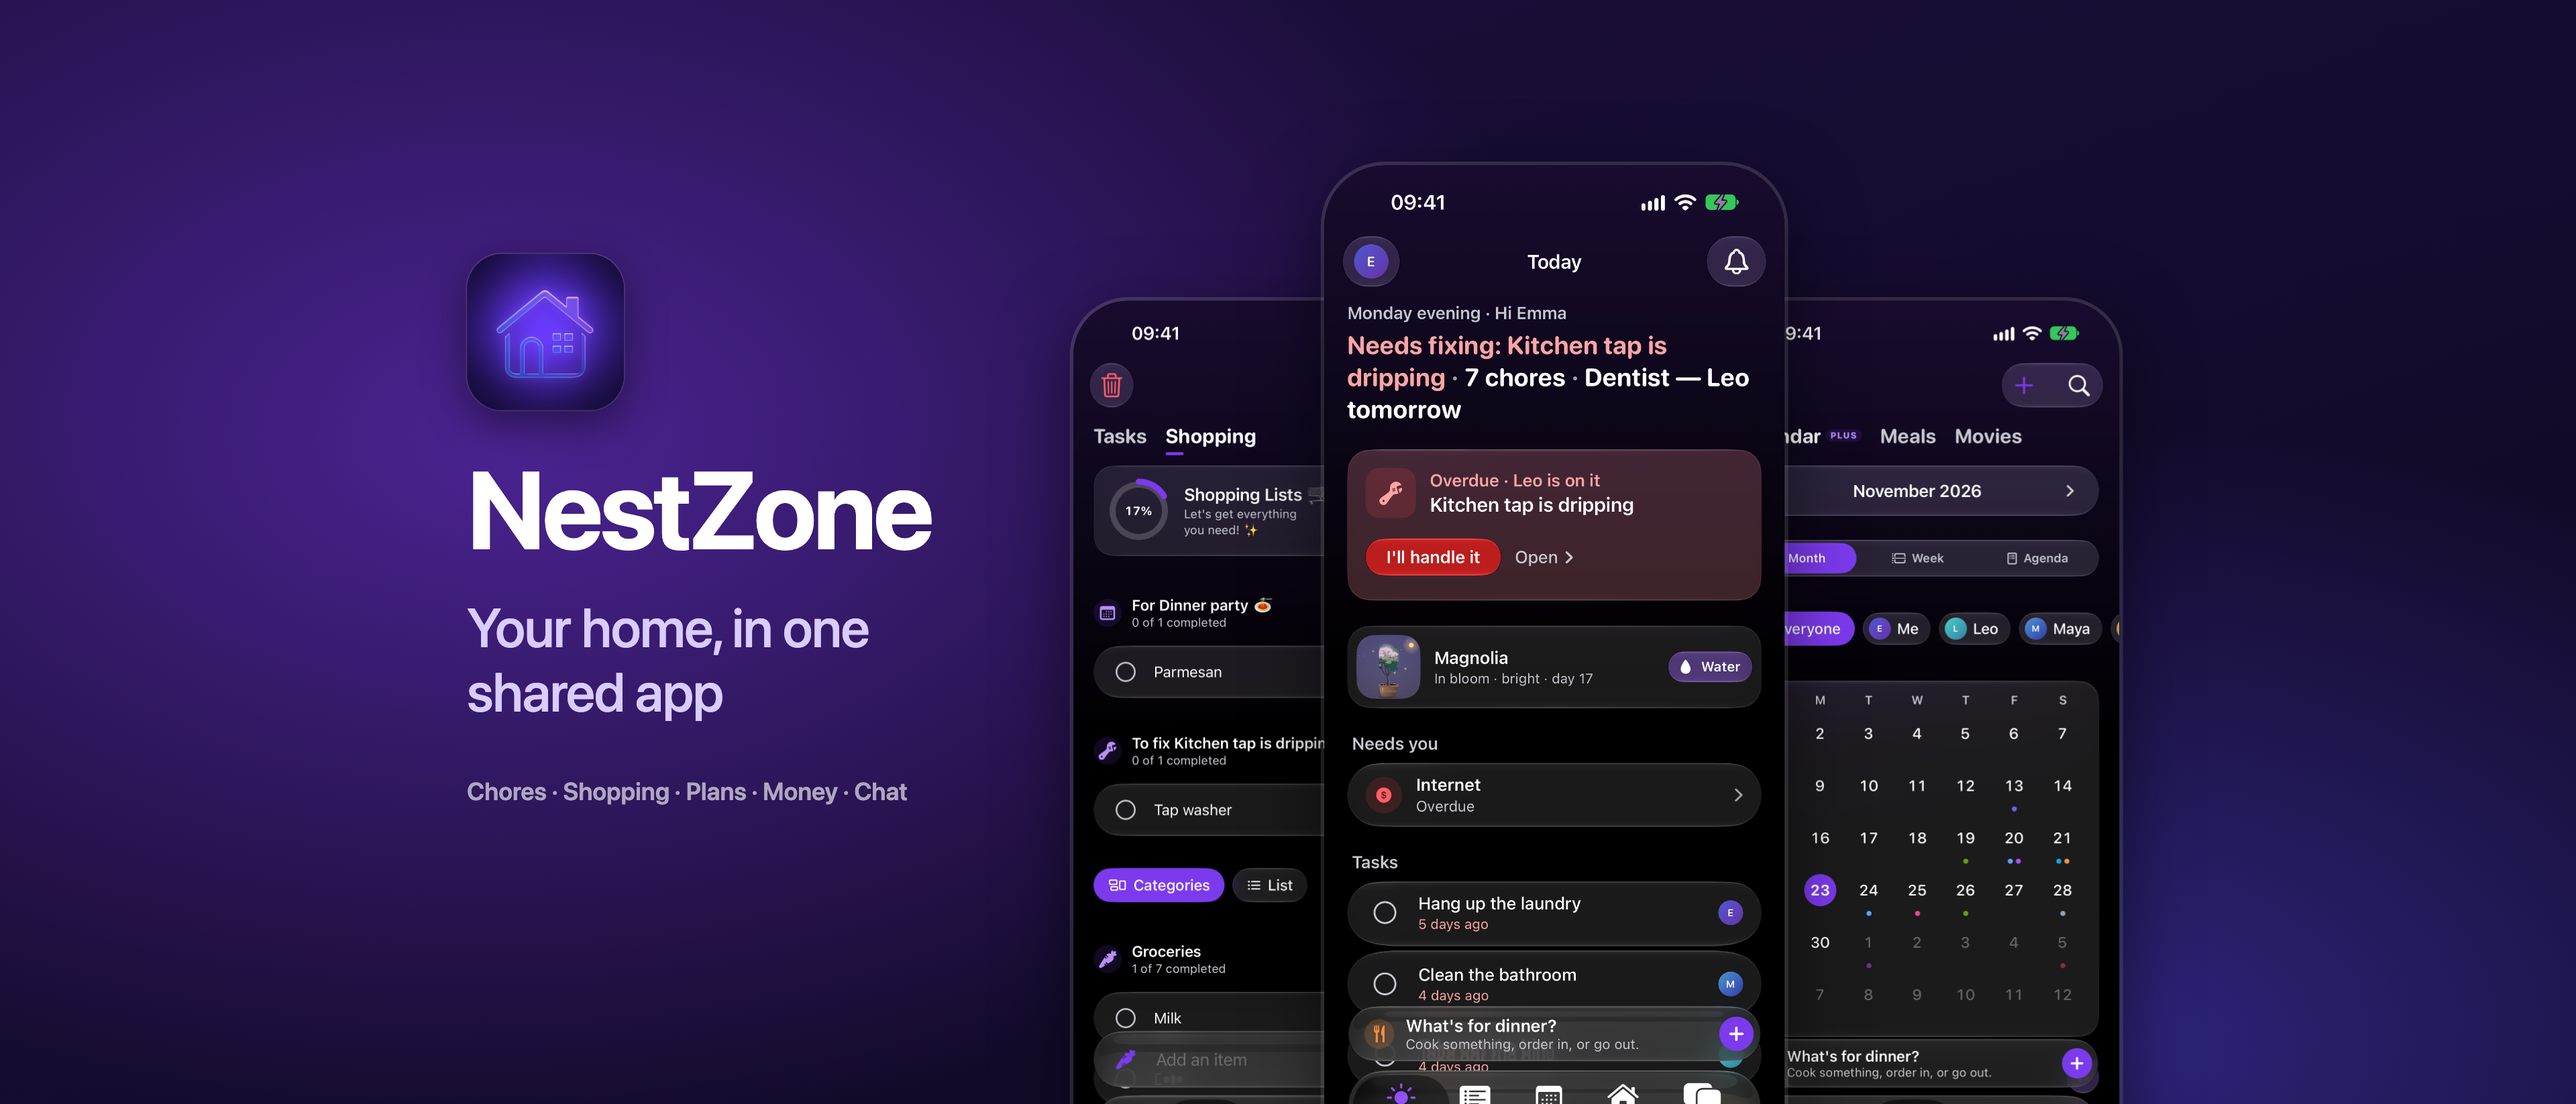
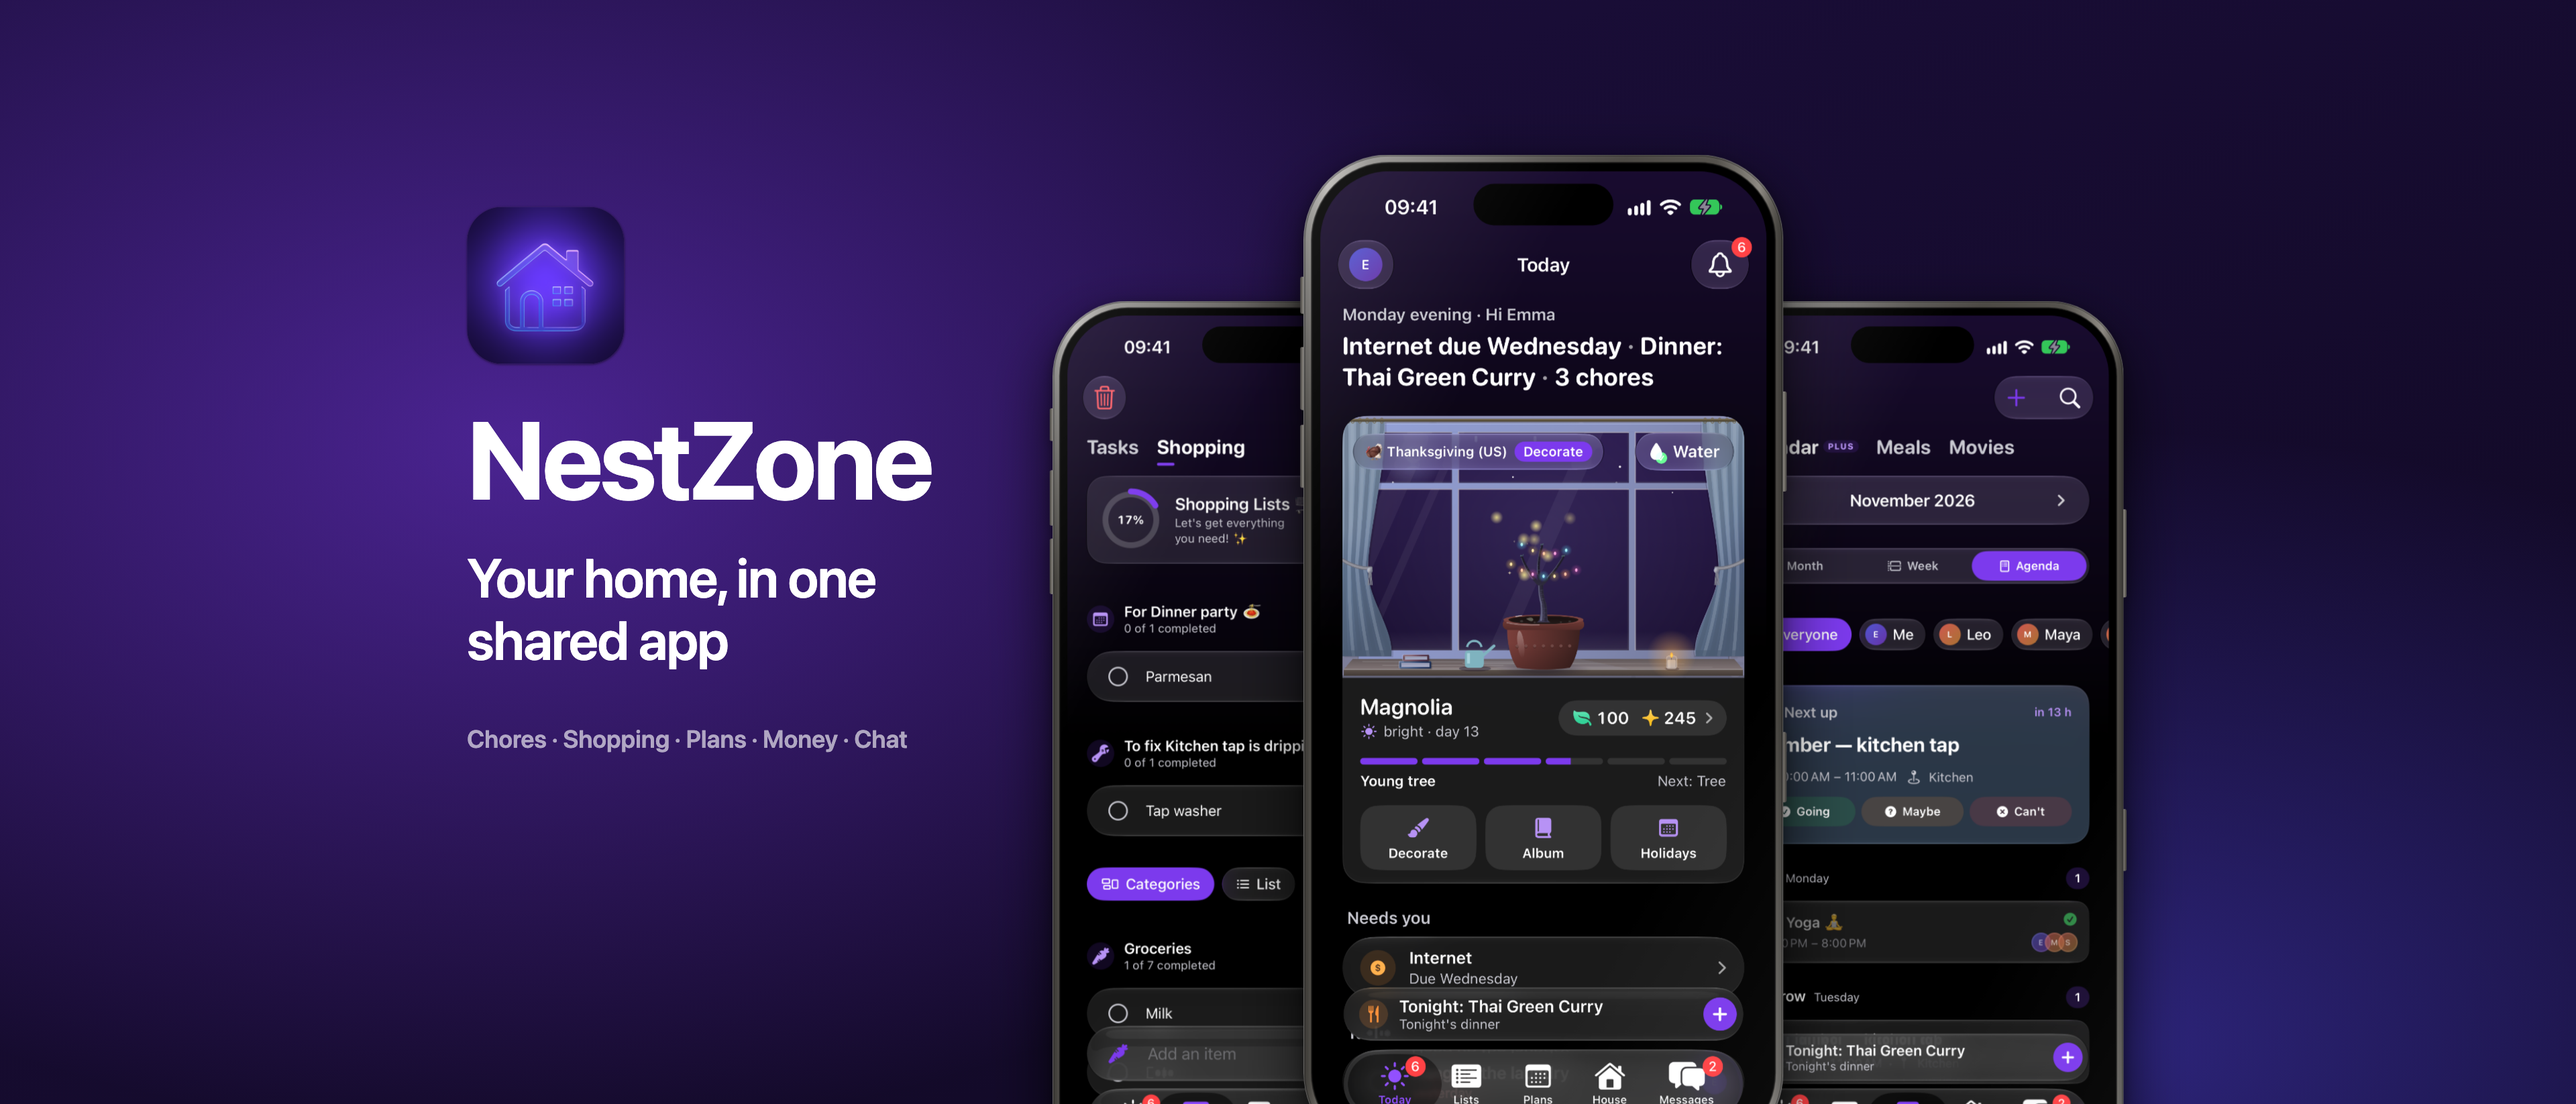
App Store header and search-results art in a real iPhone frame, en/tr/sv, from the 1.13 screens

Changed region(s): [[0.4062, 0.1239, 0.8438, 1.0], [0.1562, 0.1859, 0.375, 0.6817], [0.1875, 0.7126, 0.3438, 0.7436]]

diff --git a/Docs/Launch/header/header.html b/Docs/Launch/header/header.html
@@ -1,62 +1,97 @@
 <!doctype html>
 <meta charset="utf-8">
-<title>NestZone header</title>
+<title>NestZone header and search results</title>
 <style>
-  :root {
-    --violet: #7C3AED; --indigo: #4F46E5;
-    --ink: #0f0820; --ink2: #1d0f3f;
-  }
+  :root { --ink: #0d0620; }
   * { box-sizing: border-box; margin: 0; }
   html, body { overflow: hidden; background: var(--ink); }
-  /* One unit = 1% of the height, or 1/200 of the width on a wider canvas, so
-     the same layout fills 5244x2950 and 3840x1646. The text and the middle of
-     the phones sit in the central ~60% x 65%; the outer phones and the foot of
-     the middle one bleed past it on purpose (App Store Connect crops this
-     image differently on each surface). */
   body { position: relative; width: 100vw; height: 100vh;
+    font-family: -apple-system, "SF Pro Display", "Helvetica Neue", sans-serif; color: #fff;
     background:
       radial-gradient(ellipse 60% 90% at 20% 40%, rgba(124,58,237,.50), transparent 70%),
       radial-gradient(ellipse 55% 80% at 82% 95%, rgba(79,70,229,.45), transparent 70%),
-      linear-gradient(160deg, var(--ink2), var(--ink)); }
-  .stage { position: absolute; left: 50%; top: 50%; transform: translate(-50%, -50%);
-    width: calc(157 * var(--u)); height: calc(100 * var(--u)); }
-  .copy { position: absolute; left: 0; top: 50%; transform: translateY(-54%); width: calc(50 * var(--u)); color: #fff;
-    font-family: -apple-system, "SF Pro Display", "Helvetica Neue", sans-serif; }
-  .icon { width: calc(15 * var(--u)); height: calc(15 * var(--u)); border-radius: 22.37%;
-    box-shadow: 0 calc(1.4*var(--u)) calc(4*var(--u)) rgba(0,0,0,.45), 0 0 0 calc(.12*var(--u)) rgba(255,255,255,.14); }
-  h1 { margin-top: calc(4 * var(--u)); font-size: calc(10.5 * var(--u)); line-height: 1; font-weight: 700; letter-spacing: -.03em; }
-  .line { margin-top: calc(3 * var(--u)); font-size: calc(5.2 * var(--u)); line-height: 1.18; font-weight: 500; color: #d9ccff; letter-spacing: -.01em; }
-  .mods { margin-top: calc(5 * var(--u)); font-size: calc(2.35 * var(--u)); font-weight: 600; color: rgba(255,255,255,.62); letter-spacing: .01em; }
-  .phone { position: absolute; background: #000; border-radius: calc(5.2 * var(--u)); overflow: hidden;
-    box-shadow: 0 calc(2*var(--u)) calc(7*var(--u)) rgba(0,0,0,.55), 0 0 0 calc(.35*var(--u)) rgba(255,255,255,.16); }
-  .phone img { display: block; width: 100%; height: 100%; object-fit: cover; object-position: top; }
-  .p1 { left: calc(58 * var(--u)); top: calc(26 * var(--u)); width: calc(38.6 * var(--u)); height: calc(83.9 * var(--u)); }
-  .p3 { left: calc(119.4 * var(--u)); top: calc(26 * var(--u)); width: calc(38.6 * var(--u)); height: calc(83.9 * var(--u)); }
-  .p2 { left: calc(82 * var(--u)); top: calc(13 * var(--u)); width: calc(44 * var(--u)); height: calc(95.6 * var(--u)); z-index: 2; border-radius: calc(5.8 * var(--u)); }
+      linear-gradient(160deg, #1d0f3f, #0f0820); }
+  body.search { background:
+      radial-gradient(ellipse 55% 80% at 25% 30%, rgba(124,58,237,.60), transparent 70%),
+      radial-gradient(ellipse 50% 70% at 85% 90%, rgba(79,70,229,.55), transparent 70%),
+      linear-gradient(160deg, #1d0f3f, #0c0619); }
+  .stage { position: absolute; left: 50%; top: 50%; transform: translate(-50%, -50%); }
+  body.search .stage { left: 0; top: 0; transform: none; }
+  .copy { position: absolute; }
+  .icon { display: block; border-radius: 22.37%; box-shadow: 0 .06em .2em rgba(0,0,0,.45), 0 0 0 .006em rgba(255,255,255,.14); }
+  h1 { font-weight: 700; letter-spacing: -.03em; line-height: 1; }
+  .line { font-weight: 600; line-height: 1.15; letter-spacing: -.012em; }
+  .mods { font-weight: 600; letter-spacing: .01em; color: rgba(255,255,255,.62); }
+
+  /* The drawn iPhone, same as screenshots/frame/frame.html, in the screenshot's own pixels (1296 x 2712 body). */
+  .ph { position: absolute; transform-origin: 0 0; width: 1296px; height: 2712px;
+    filter: drop-shadow(0 70px 90px rgba(0,0,0,.55)) drop-shadow(0 12px 18px rgba(0,0,0,.45)); }
+  .btn { position: absolute; width: 17px; border-radius: 6px;
+    background: linear-gradient(90deg, #3a3835, #8a867f 45%, #5a5753); box-shadow: inset 0 0 0 1px rgba(255,255,255,.18); }
+  .btn.l { left: -9px; }  .btn.r { right: -9px; transform: scaleX(-1); }
+  .action { top: 330px; height: 100px; } .volup { top: 520px; height: 170px; } .voldn { top: 730px; height: 170px; }
+  .power { top: 640px; height: 270px; }
+  .camctl { top: 1560px; height: 190px; width: 14px; right: -7px; background: linear-gradient(90deg,#2e2c2a,#74706a 50%,#45423f); border-radius: 7px; }
+  .body { position: absolute; inset: 0; border-radius: 231px;
+    background:
+      linear-gradient(135deg, rgba(255,255,255,.55) 0%, rgba(255,255,255,0) 22%, rgba(255,255,255,0) 70%, rgba(255,255,255,.25) 100%),
+      linear-gradient(90deg, #35332f 0%, #8e8a83 5%, #55524d 14%, #44413d 50%, #55524d 86%, #8e8a83 95%, #35332f 100%);
+    box-shadow: inset 0 0 0 2px rgba(255,255,255,.28), inset 0 0 0 5px rgba(0,0,0,.35), inset 0 0 14px rgba(255,255,255,.18); }
+  .glass { position: absolute; inset: 22px; border-radius: 209px; background: #000; box-shadow: 0 0 0 2px rgba(0,0,0,.55), inset 0 0 0 1.5px rgba(255,255,255,.07); }
+  .screen { position: absolute; left: 45px; top: 45px; width: 1206px; height: 2622px; border-radius: 186px; overflow: hidden; background: #000; }
+  .screen img { display: block; width: 100%; height: 100%; }
+  .island { position: absolute; left: 50%; top: 34px; width: 378px; height: 112px; margin-left: -189px; border-radius: 56px; background: #000; }
+  .sheen { position: absolute; inset: 22px; border-radius: 209px; pointer-events: none;
+    background: linear-gradient(120deg, rgba(255,255,255,.10) 0%, rgba(255,255,255,0) 28%, rgba(255,255,255,0) 72%, rgba(255,255,255,.05) 100%); }
+  .apple { position: absolute; inset: 0; width: 100%; height: 100%; display: none; pointer-events: none; }
+  .official .body, .official .glass, .official .btn, .official .sheen, .official .island { display: none; }
+  .official .apple { display: block; }
 </style>
 <body>
-<div class="stage">
-  <div class="copy">
-    <img class="icon" src="assets/icon.png" alt="">
-    <h1>NestZone</h1>
-    <p class="line" id="line"></p>
-    <p class="mods" id="mods"></p>
-  </div>
-  <div class="phone p1"><img id="a" alt=""></div>
-  <div class="phone p3"><img id="c" alt=""></div>
-  <div class="phone p2"><img id="b" alt=""></div>
-</div>
+<div class="stage" id="stage"></div>
 <script>
-  const lang = (location.hash.slice(1) || 'en').split('&')[0];
+  // header.html#<lang>[&search]   (header: 5244x2950 or 3840x1646; search: 3840x2560)
+  const q = new URLSearchParams(location.hash.slice(1));
+  const lang = [...q.keys()].find(k => ['en','tr','sv'].includes(k)) || 'en';
+  const search = q.has('search');
+  document.body.classList.toggle('search', search);
   const T = {
-    en: ['Your home, in one shared app', 'Chores · Shopping · Plans · Money · Chat'],
-    tr: ['Evin her şeyi, tek ortak uygulamada', 'İşler · Alışveriş · Planlar · Para · Sohbet'],
+    en: { line: 'Your home, in one shared app', mods: 'Chores · Shopping · Plans · Money · Chat' },
+    tr: { line: 'Evin her şeyi, tek ortak uygulamada', mods: 'İşler · Alışveriş · Planlar · Para · Sohbet' },
+    sv: { line: 'Hela hemmet i en gemensam app', mods: 'Sysslor · Handla · Planer · Pengar · Chatt' },
   }[lang];
-  document.getElementById('line').textContent = T[0];
-  document.getElementById('mods').textContent = T[1];
-  document.getElementById('a').src = `shots/${lang}_shop.png`;
-  document.getElementById('b').src = `shots/${lang}_today.png`;
-  document.getElementById('c').src = `shots/${lang}_cal.png`;
-  const u = Math.min(innerHeight / 100, innerWidth / 200);
-  document.documentElement.style.setProperty('--u', u + 'px');
+  const shot = n => `../screenshots/raw/${lang}_${n}.png`;
+  const HW = '<div class="btn l action"></div><div class="btn l volup"></div><div class="btn l voldn"></div><div class="btn r power"></div><div class="camctl btn r"></div>';
+  function phone(n, x, y, h, z) {                       // h = body height in canvas px
+    const k = h / 2712, d = document.createElement('div');
+    d.className = 'ph'; d.style.cssText = `left:${x}px;top:${y}px;transform:scale(${k});z-index:${z}`;
+    d.innerHTML = HW + '<div class="body"></div><div class="glass"></div><div class="screen"><img src="' + shot(n) + '"><div class="island"></div></div><div class="sheen"></div><img class="apple" src="../screenshots/frame/apple-bezel.png">';
+    d.querySelector('.apple').onload = () => d.classList.add('official');
+    return d;
+  }
+  function copy(x, y, w, s) {                           // s = font unit in px
+    const c = document.createElement('div'); c.className = 'copy'; c.style.cssText = `left:${x}px;top:${y}px;width:${w}px`;
+    c.innerHTML = `<img class="icon" src="assets/icon.png" style="width:${s*15}px;height:${s*15}px">
+      <h1 style="margin-top:${s*4}px;font-size:${s*search_k(10.5, 12)}px">NestZone</h1>
+      <p class="line" style="margin-top:${s*3}px;font-size:${s*search_k(5.2, 5.8)}px">${T.line}</p>
+      ${search ? '' : `<p class="mods" style="margin-top:${s*5}px;font-size:${s*2.35}px">${T.mods}</p>`}`;
+    return c;
+  }
+  function search_k(a, b) { return search ? b : a; }
+  const W = innerWidth, H = innerHeight, st = document.getElementById('stage');
+  if (!search) {
+    // Header: one layout unit = 1% of the height or 1/200 of the width. Text and the middle phone's top
+    // half sit in the central ~60%; the outer phones and the foot of the middle one bleed on purpose.
+    const u = Math.min(H / 100, W / 200);
+    st.style.cssText = `width:${157*u}px;height:${100*u}px`;
+    st.append(copy(0, 50*u - 33*u, 50*u, u));
+    const body = h => h;                                // body height in px
+    st.append(phone('03', 56*u, 26*u, 84.5*u, 1), phone('04', 118*u, 26*u, 84.5*u, 1), phone('01', 80*u, 12*u, 96*u, 2));
+  } else {
+    // Search results (3:2): big name and one line at the top left, two large phones.
+    const u = H / 100;
+    st.style.cssText = `width:${W}px;height:${H}px`;
+    const c = copy(0.075*W, 0.14*H, 0.4*W, u); c.style.left = 0.07*W + 'px'; st.append(c);
+    st.append(phone('04', 0.485*W, 0.22*H, 0.94*H, 1), phone('01', 0.67*W, 0.07*H, 1.0*H, 2));
+  }
 </script>

diff --git a/Docs/Launch/header/README.md b/Docs/Launch/header/README.md
@@ -1,24 +1,16 @@
-# Header and Search Results image
+# Header and Search Results images
 
-`header.html` is the whole design; `build.sh` renders it with headless Chrome in
-both languages and both sizes Apple lists for App Store Connect's "Header and
-Search Results" section: 5244 x 2950 and 3840 x 1646 (PNG, opaque, sRGB).
-`shots.sh en|tr` retakes the three phone screens from the screenshot houses.
+`header.html` is the whole design; `build.sh [en tr sv]` renders it with headless Chrome:
 
-What was assumed, because the ASC page gives sizes and no safe-area map:
+- `header-<lang>-5244x2950.png` and `header-<lang>-3840x1646.png` (Header and Search Results section)
+- `search-<lang>-3840x2560.png` and `search-<lang>-1920x1280.png` (the 3:2 Search Results asset)
 
-- The image is cropped differently per surface and orientation, so the name,
-  the line and the middle phone's top half (the Today screen's header and its
-  urgent card) sit in the central ~60% of the width and ~65% of the height.
-  The two outer phones and the foot of the middle one bleed past that on
-  purpose: losing them in a crop costs nothing.
-- One layout unit is 1/100 of the height or 1/200 of the width, whichever is
-  smaller, so the two sizes are the same picture at two sizes.
-- Persona and houses are the screenshot ones (Emma, Maya, Leo, Sam / Ayse, Mert,
-  Deniz); no real name, face or house is drawn. Theme: Basic (violet), the one
-  the store screenshots use.
-- The line is in the app's voice, not a claim: "Your home, in one shared app" /
-  "Evin her seyi, tek ortak uygulamada" (written with Turkish letters in the
-  image).
+All are opaque RGB PNG, sRGB, under 7 MB. They use the real 1.13 captures in
+`../screenshots/raw/<lang>_NN.png` (01 Today, 03 Shopping, 04 Calendar; each language from its own screenshot
+house) in the same drawn iPhone as the store screenshots (`../screenshots/frame/`; a
+`frame/apple-bezel.png` is used if it exists). Retake the captures with `../screenshots/shoot.sh`.
 
-Files: `header-<en|tr>-5244x2950.png`, `header-<en|tr>-3840x1646.png`.
+Assumptions (ASC gives sizes, not a safe-area map): the header is cropped differently per surface, so the name,
+the line and the middle phone's top half sit in the central ~60% x 65%; the outer phones and the foot of the middle
+one bleed past it on purpose. The search image has to read small: the name is large, the promise is one line,
+two phones, nothing else. Theme: Basic (violet).
